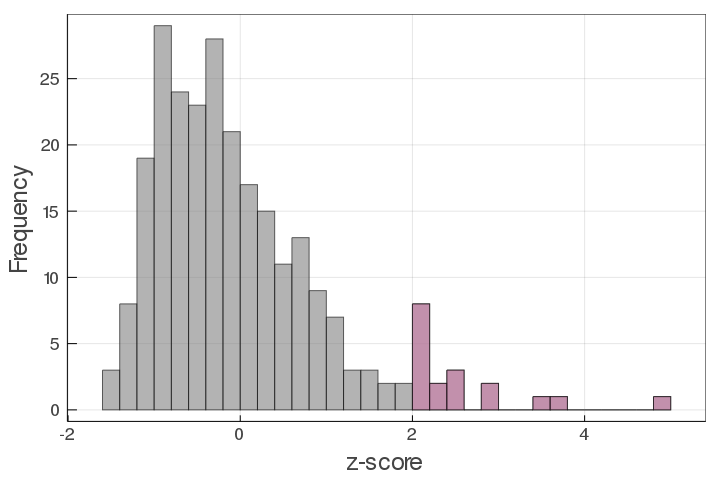
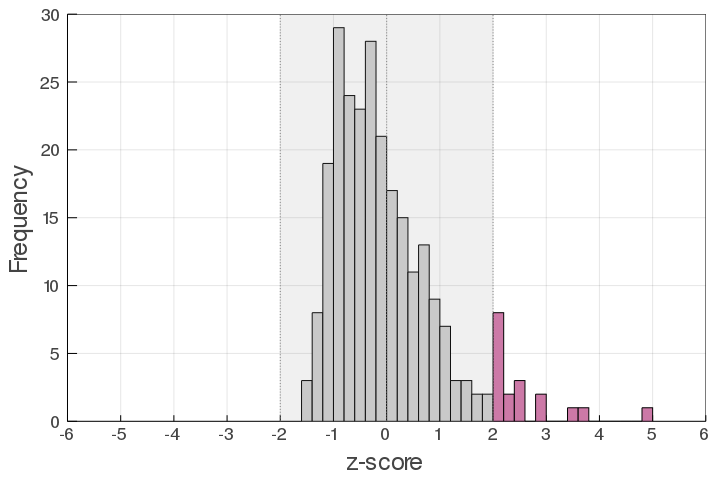
figure z-score enhanced

diff --git a/manuscript.md b/manuscript.md
@@ -411,7 +411,7 @@ Our of 255 foodwebs, no webs were found to have unusually low numbers of links (
 
 it doesn't mean that no food web will ever have a z-score lower than -1.96. If this model is fit to data from a specific system, it This model can be fit to data from a specific system to
 
-![**Empirical distribution of food-web z-scores** The z-scores of all food webs archived on `mangal.io` have been computed using +@eq:z. Food webs with an absolute z-score above 1.96 are in pink.  
+![**Empirical distribution of food-web z-scores** The z-scores of all food webs archived on `mangal.io` have been computed using +@eq:z. Food webs with an absolute z-score above 1.96 are in pink. The shaded region comprises all food webs with an absolute z-score below 1.96.
 ](figures/z-scores.png){#fig:zscores}
 
 In +@fig:MAPnormal, we show that the predictions made by the normal
